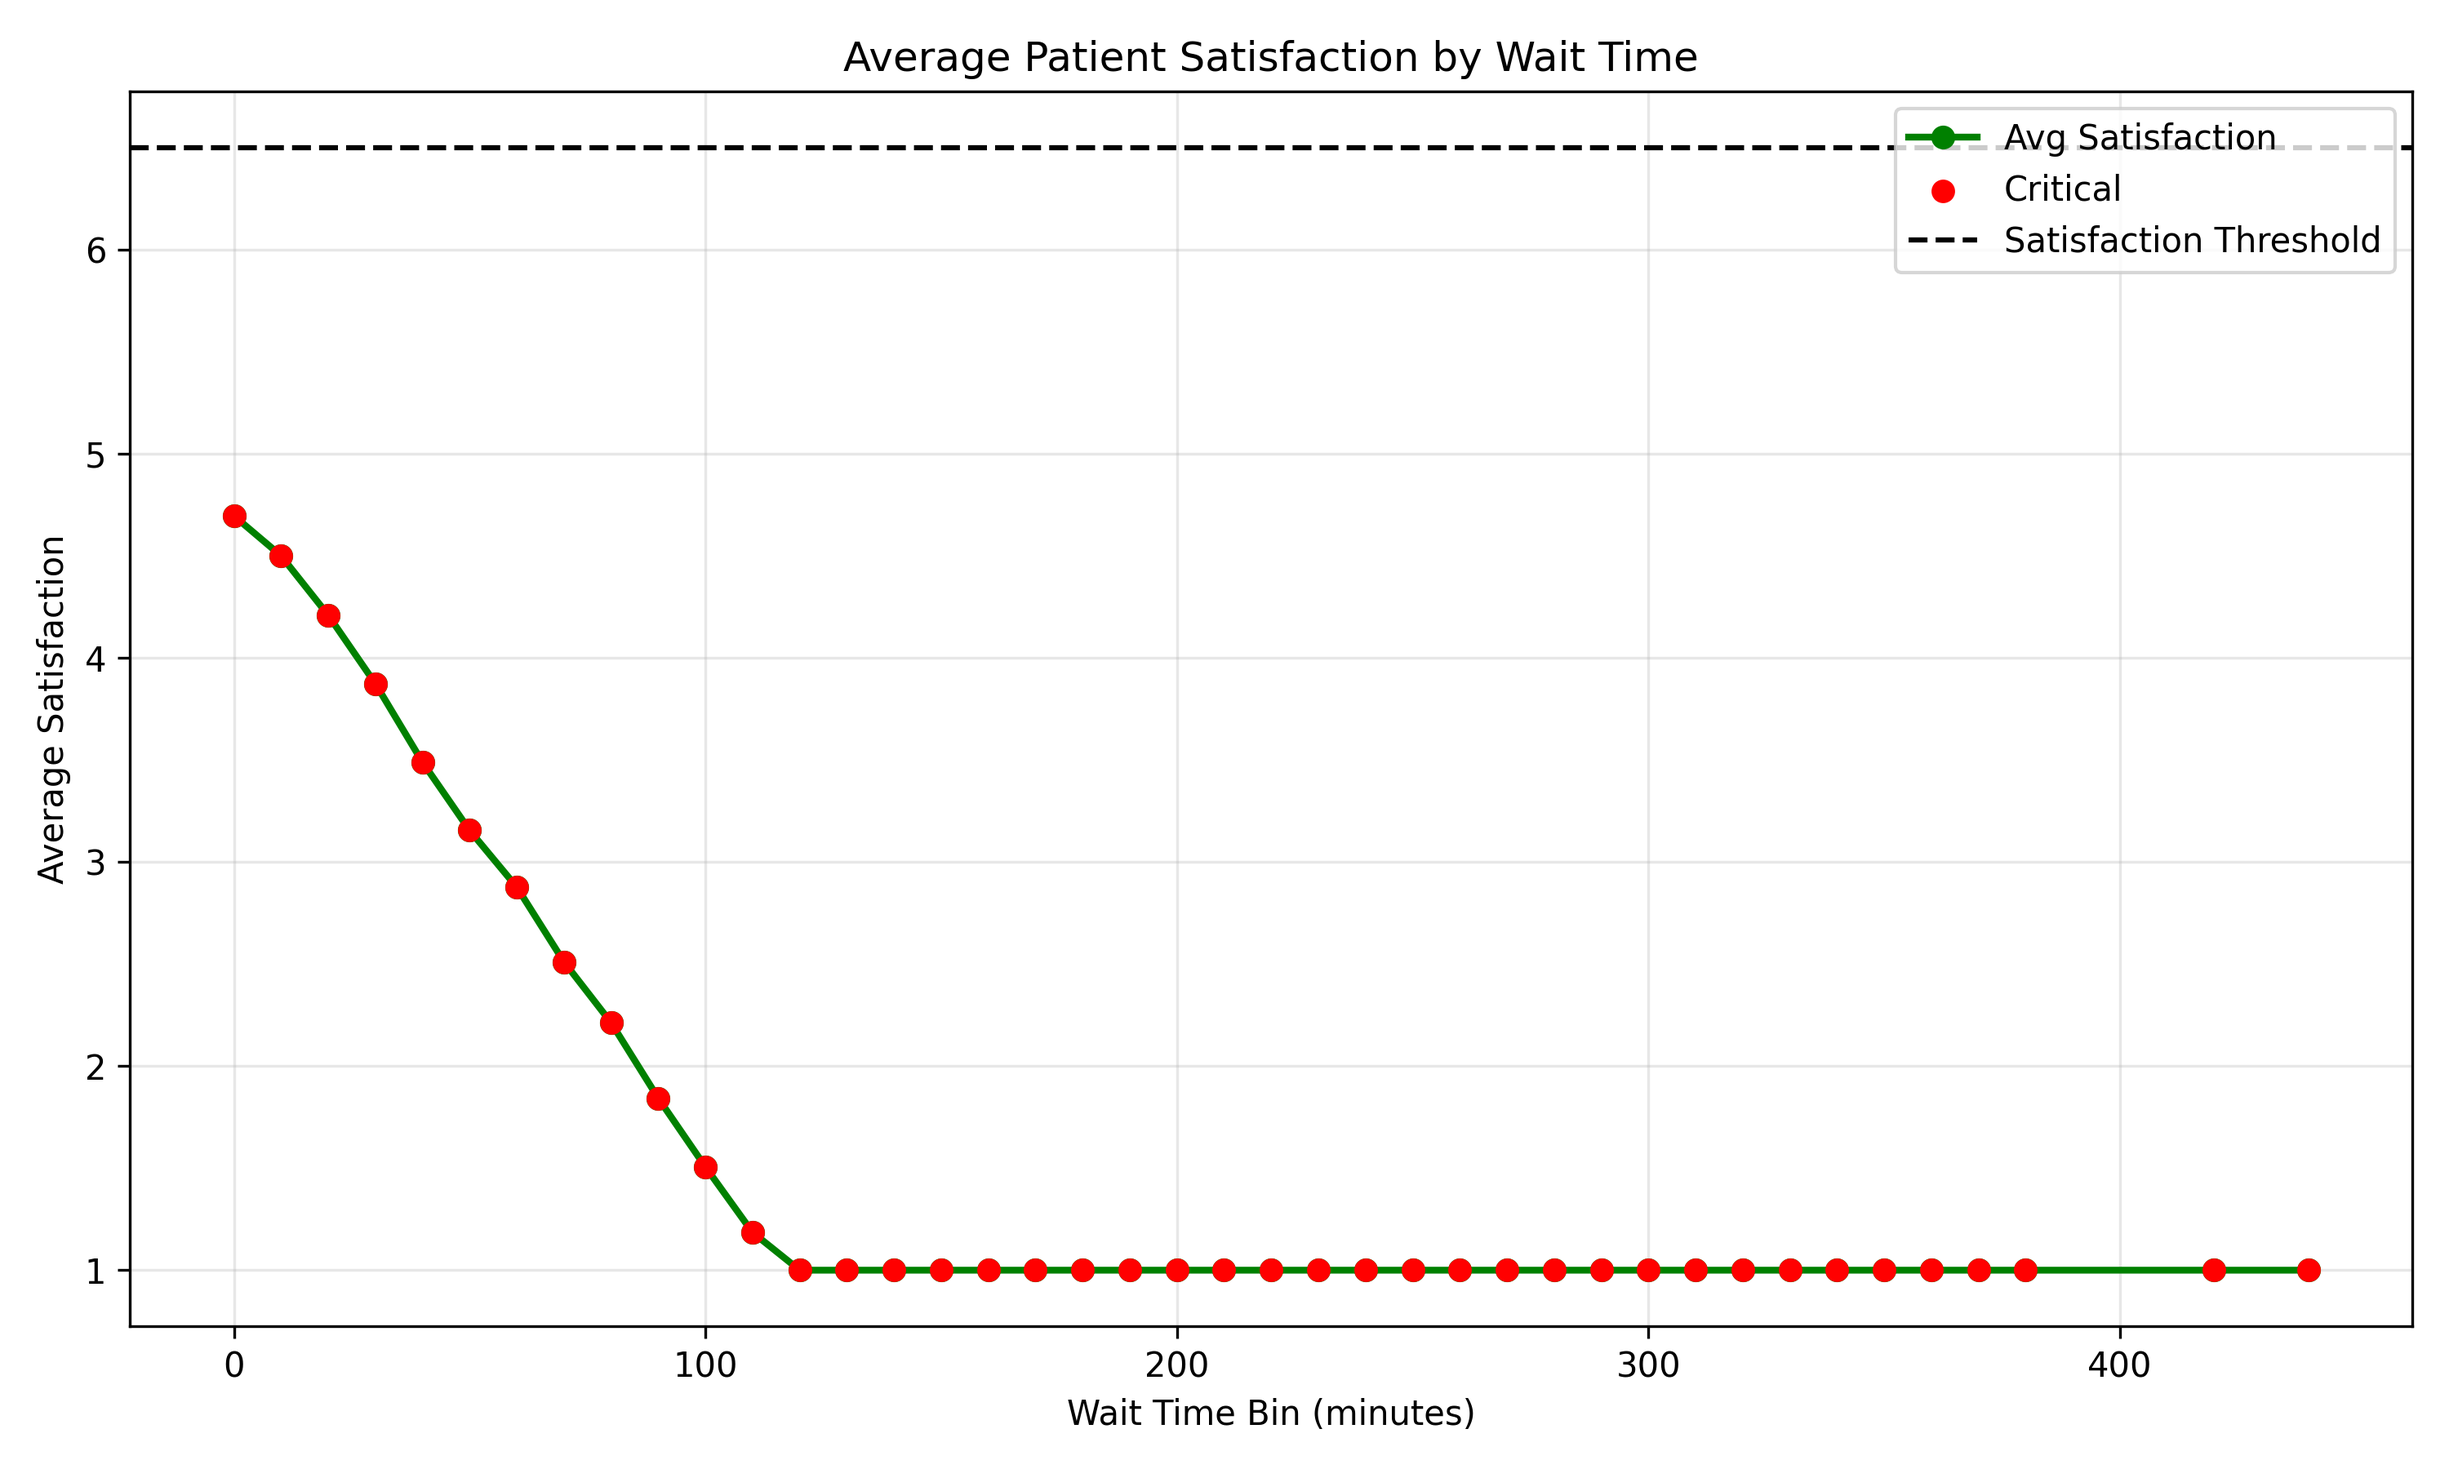
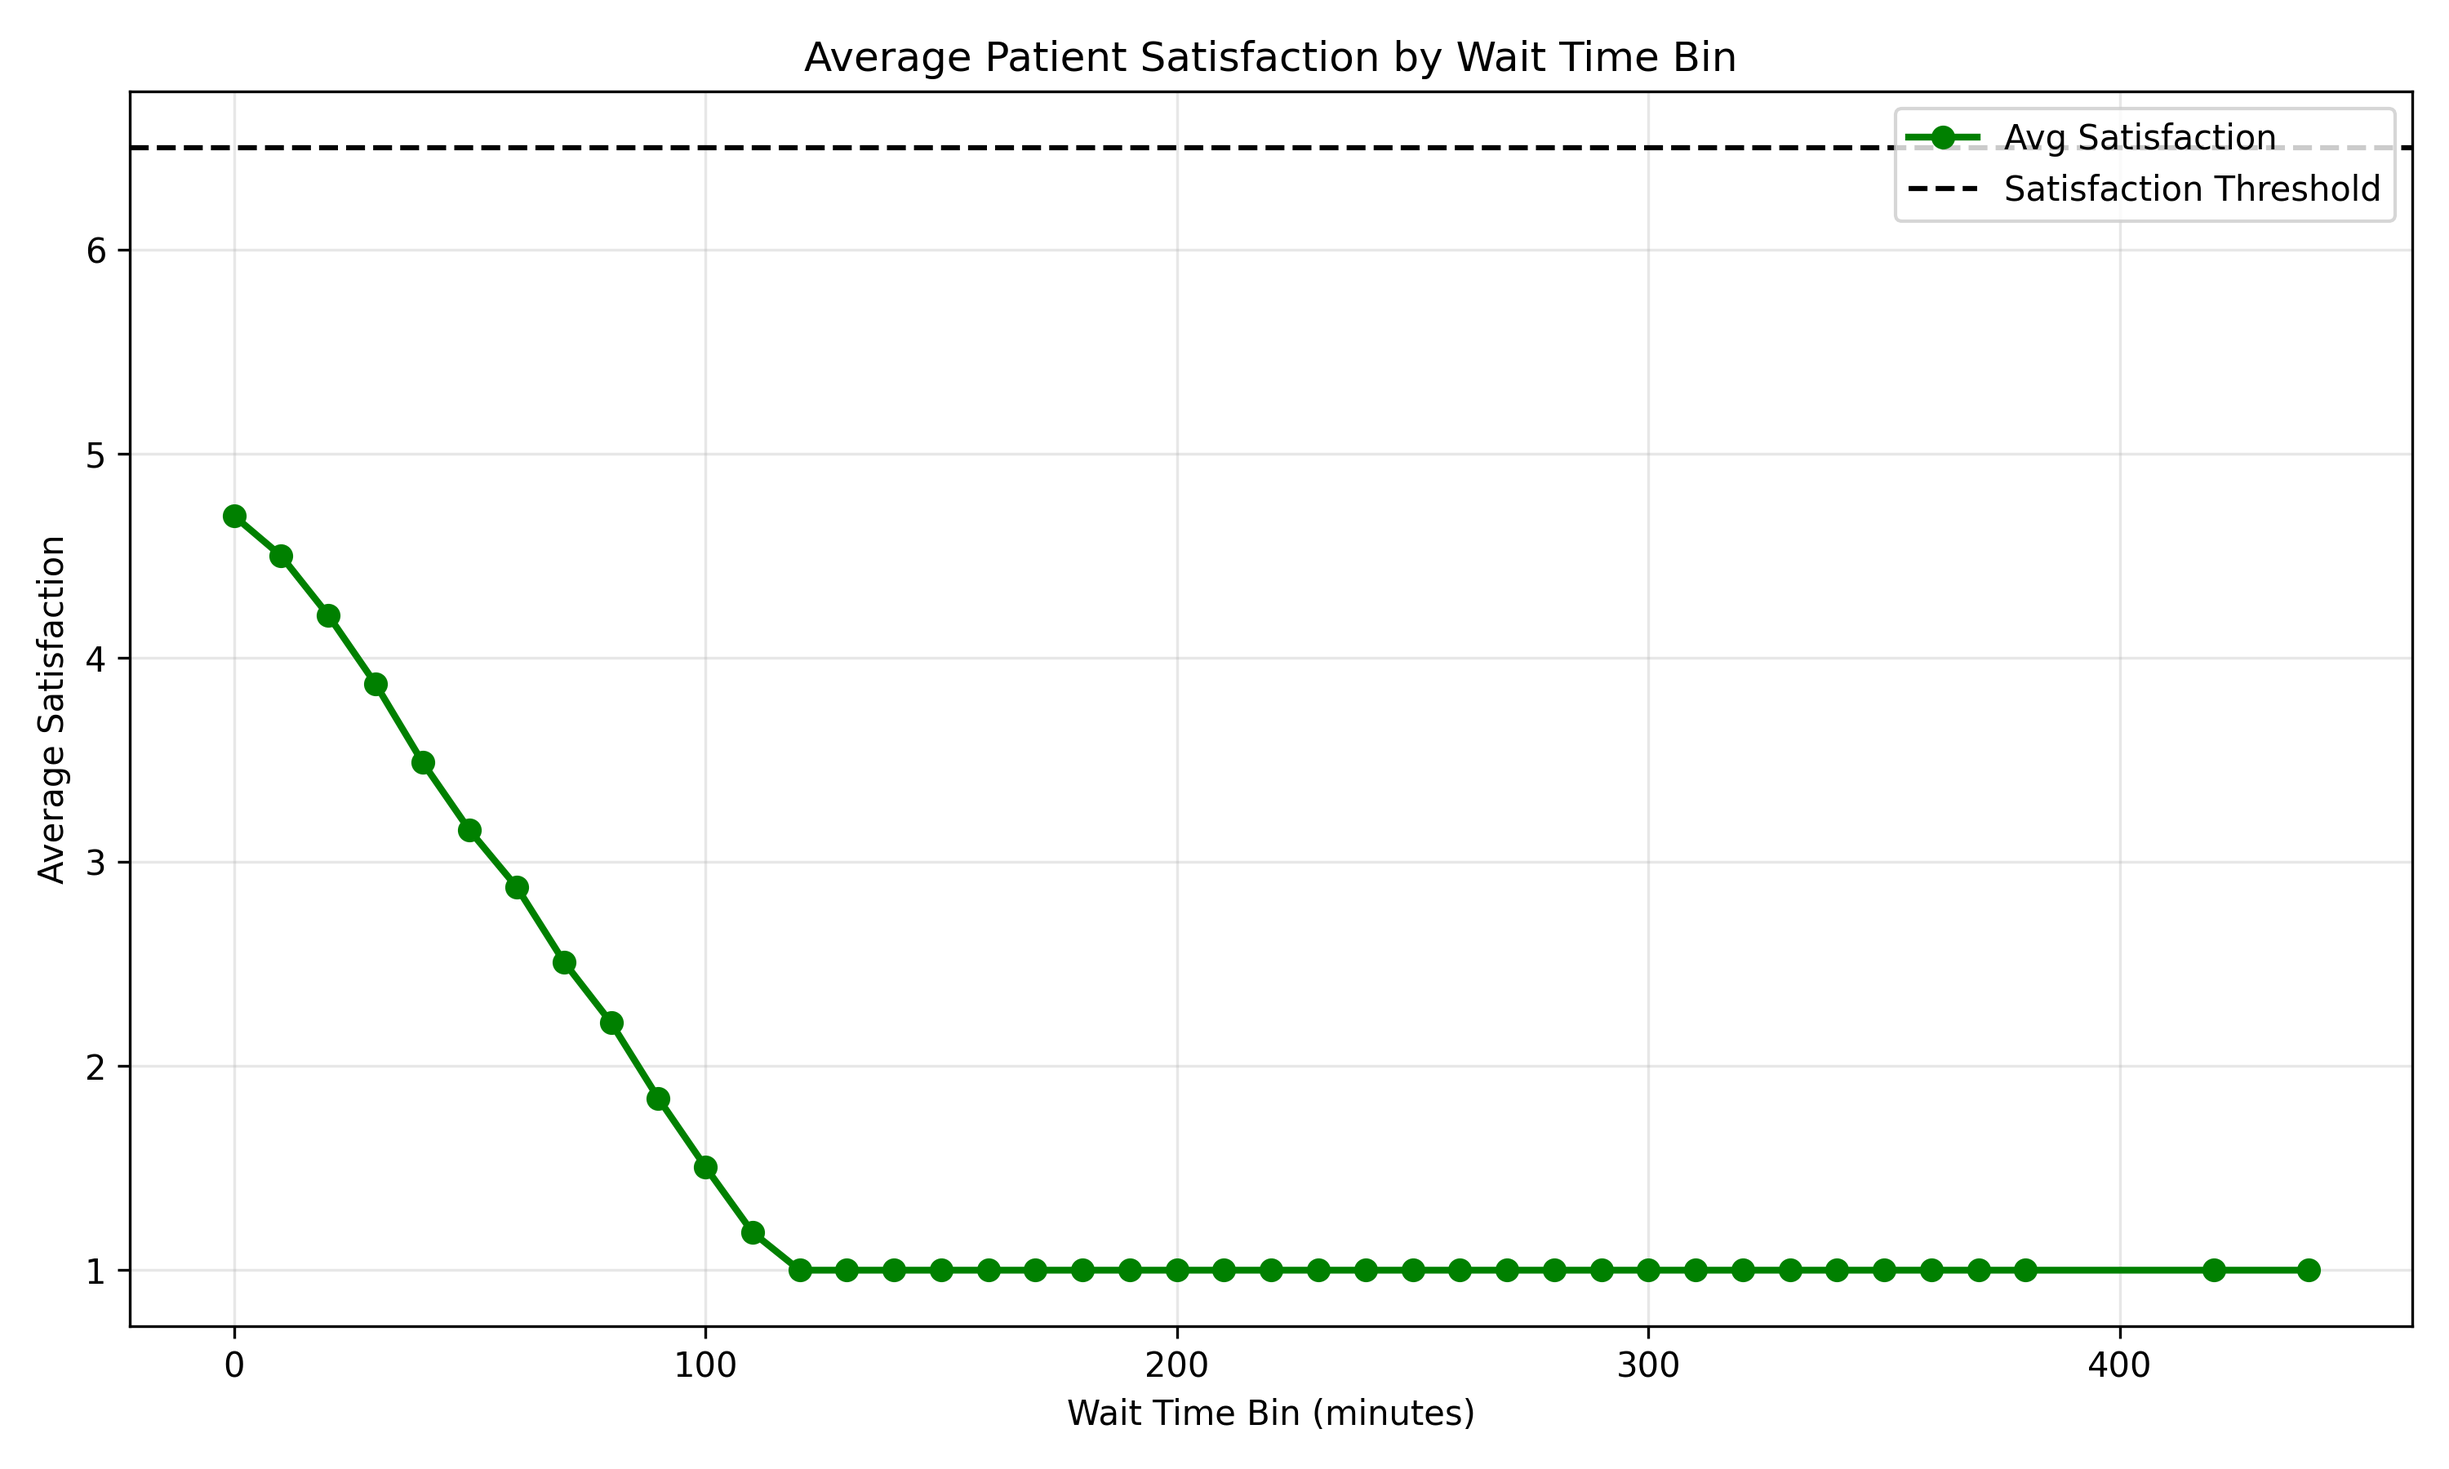
Phase 5: Add ED system visualizations and anomaly monitoring

diff --git a/src/cintel/continuous_intelligence_ER_wait_time_bethspornitz.py b/src/cintel/continuous_intelligence_ER_wait_time_bethspornitz.py
@@ -207,14 +207,13 @@ def main() -> None:
     # ----------------------------------------------------
     LOG.info("STEP 6. Creating visualization artifacts...")
 
-    # ----------------------------------------------------
-    # VISUAL 1: ED System Monitoring Dashboard
-    # ----------------------------------------------------
     dashboard_df = df.select(
         [
             "visit_datetime",
             "rolling_avg_wait_time",
             "rolling_avg_satisfaction",
+            "rolling_left_without_being_seen_rate",
+            "rolling_avg_nurse_patient_ratio",
             "anomaly_count",
         ]
     ).drop_nulls()
@@ -226,66 +225,174 @@ def main() -> None:
 
     MIN_AVG_SATISFACTION = 6.5
 
-    fig, axes = plt.subplots(3, 1, figsize=(14, 11), sharex=True)
+    latest_wait = rolling_wait[-1]
+    latest_satisfaction = rolling_satisfaction[-1]
+    latest_anomalies = anomaly_count[-1]
+
+    if latest_anomalies >= 3:
+        current_status = "CRITICAL"
+    elif latest_anomalies >= 1:
+        current_status = "WARNING"
+    else:
+        current_status = "STABLE"
+
+    def get_status_color(
+        value: float, threshold: float, higher_is_bad: bool = True
+    ) -> str:
+        """Return executive dashboard color by severity."""
+        if higher_is_bad:
+            if value >= threshold * 1.15:
+                return "red"
+            if value >= threshold:
+                return "orange"
+            return "green"
+        else:
+            if value <= threshold * 0.85:
+                return "red"
+            if value <= threshold:
+                return "orange"
+            return "green"
+
+    wait_color = get_status_color(latest_wait, MAX_AVG_WAIT_TIME, higher_is_bad=True)
+    satisfaction_color = get_status_color(
+        latest_satisfaction, MIN_AVG_SATISFACTION, higher_is_bad=False
+    )
+
+    if latest_anomalies >= 3:
+        anomaly_color = "red"
+    elif latest_anomalies == 2:
+        anomaly_color = "orange"
+    elif latest_anomalies == 1:
+        anomaly_color = "gold"
+    else:
+        anomaly_color = "green"
+
+    if current_status == "CRITICAL":
+        state_color = "red"
+    elif current_status == "WARNING":
+        state_color = "orange"
+    else:
+        state_color = "green"
 
     # ----------------------------------------------------
-    # VISUAL 1A: Rolling Average Wait Time with Alert Points
+    # VISUAL 1: Executive Monitoring Dashboard
     # ----------------------------------------------------
-    axes[0].plot(
+    fig = plt.figure(figsize=(16, 10))
+    gs = fig.add_gridspec(
+        nrows=4,
+        ncols=4,
+        height_ratios=[1.2, 2.2, 2.2, 0.8],
+        hspace=0.5,
+        wspace=0.35,
+    )
+
+    # KPI cards
+    ax_kpi1 = fig.add_subplot(gs[0, 0])
+    ax_kpi2 = fig.add_subplot(gs[0, 1])
+    ax_kpi3 = fig.add_subplot(gs[0, 2])
+    ax_kpi4 = fig.add_subplot(gs[0, 3])
+
+    # Trend charts
+    ax_wait = fig.add_subplot(gs[1, :])
+    ax_sat = fig.add_subplot(gs[2, :])
+
+    # Alert strip
+    ax_alert = fig.add_subplot(gs[3, :])
+
+    for ax in [ax_kpi1, ax_kpi2, ax_kpi3, ax_kpi4]:
+        ax.set_xticks([])
+        ax.set_yticks([])
+        for spine in ax.spines.values():
+            spine.set_visible(False)
+
+    def draw_kpi_card(
+        ax, title: str, value_text: str, subtitle: str, color: str
+    ) -> None:
+        """Draw a simple executive KPI card."""
+        ax.set_facecolor("#f5f5f5")
+        ax.text(
+            0.5, 0.78, title, ha="center", va="center", fontsize=11, fontweight="bold"
+        )
+        ax.text(
+            0.5,
+            0.48,
+            value_text,
+            ha="center",
+            va="center",
+            fontsize=22,
+            fontweight="bold",
+            color=color,
+        )
+        ax.text(0.5, 0.18, subtitle, ha="center", va="center", fontsize=10)
+
+    draw_kpi_card(
+        ax_kpi1,
+        "Rolling Wait Time",
+        f"{latest_wait:.1f} min",
+        f"Threshold: {MAX_AVG_WAIT_TIME:.0f}",
+        wait_color,
+    )
+    draw_kpi_card(
+        ax_kpi2,
+        "Rolling Satisfaction",
+        f"{latest_satisfaction:.2f}",
+        f"Threshold: {MIN_AVG_SATISFACTION:.1f}",
+        satisfaction_color,
+    )
+    draw_kpi_card(
+        ax_kpi3,
+        "Current Anomaly Level",
+        f"{int(latest_anomalies)}",
+        "Combined active signals",
+        anomaly_color,
+    )
+    draw_kpi_card(
+        ax_kpi4,
+        "System State",
+        current_status,
+        "Current overall status",
+        state_color,
+    )
+
+    # ----------------------------------------------------
+    # WAIT TIME CHART WITH SHADED ALERT PERIODS
+    # ----------------------------------------------------
+    ax_wait.plot(
         dates,
         rolling_wait,
         color="green",
         linewidth=2,
         label="Rolling Avg Wait Time",
     )
-
-    axes[0].axhline(
+    ax_wait.axhline(
         y=MAX_AVG_WAIT_TIME,
         color="black",
         linestyle="--",
         linewidth=1.5,
-        label="Wait Time Threshold",
+        label="Wait Threshold",
     )
 
-    wait_yellow = []
-    wait_orange = []
-    wait_red = []
+    above_wait = [v > MAX_AVG_WAIT_TIME for v in rolling_wait]
+    for i in range(len(dates) - 1):
+        if above_wait[i]:
+            ax_wait.axvspan(dates[i], dates[i + 1], color="red", alpha=0.18)
 
-    for d, v in zip(dates, rolling_wait, strict=False):
-        if v > MAX_AVG_WAIT_TIME * 1.20:
-            wait_red.append((d, v))
-        elif v > MAX_AVG_WAIT_TIME * 1.10:
-            wait_orange.append((d, v))
-        elif v > MAX_AVG_WAIT_TIME:
-            wait_yellow.append((d, v))
-
-    if wait_yellow:
-        wx, wy = zip(*wait_yellow, strict=False)
-        axes[0].scatter(wx, wy, color="gold", s=25, zorder=3, label="Warning")
-    if wait_orange:
-        ox, oy = zip(*wait_orange, strict=False)
-        axes[0].scatter(ox, oy, color="orange", s=30, zorder=3, label="Elevated")
-    if wait_red:
-        rx, ry = zip(*wait_red, strict=False)
-        axes[0].scatter(rx, ry, color="red", s=35, zorder=3, label="Critical")
-
-    axes[0].set_title("Rolling Average Wait Time")
-    axes[0].set_ylabel("Minutes")
-    axes[0].legend(loc="upper left")
-    axes[0].grid(alpha=0.3)
+    ax_wait.set_title("Rolling Average Wait Time with Alert Periods")
+    ax_wait.set_ylabel("Minutes")
+    ax_wait.grid(alpha=0.3)
+    ax_wait.legend(loc="upper left")
 
     # ----------------------------------------------------
-    # VISUAL 1B: Rolling Average Satisfaction with Alert Points
+    # SATISFACTION CHART WITH SHADED ALERT PERIODS
     # ----------------------------------------------------
-    axes[1].plot(
+    ax_sat.plot(
         dates,
         rolling_satisfaction,
         color="green",
         linewidth=2,
         label="Rolling Avg Satisfaction",
     )
-
-    axes[1].axhline(
+    ax_sat.axhline(
         y=MIN_AVG_SATISFACTION,
         color="black",
         linestyle="--",
@@ -293,73 +400,47 @@ def main() -> None:
         label="Satisfaction Threshold",
     )
 
-    sat_yellow = []
-    sat_orange = []
-    sat_red = []
+    below_sat = [v < MIN_AVG_SATISFACTION for v in rolling_satisfaction]
+    for i in range(len(dates) - 1):
+        if below_sat[i]:
+            ax_sat.axvspan(dates[i], dates[i + 1], color="red", alpha=0.18)
 
-    for d, v in zip(dates, rolling_satisfaction, strict=False):
-        if v < MIN_AVG_SATISFACTION * 0.80:
-            sat_red.append((d, v))
-        elif v < MIN_AVG_SATISFACTION * 0.90:
-            sat_orange.append((d, v))
-        elif v < MIN_AVG_SATISFACTION:
-            sat_yellow.append((d, v))
-
-    if sat_yellow:
-        sx, sy = zip(*sat_yellow, strict=False)
-        axes[1].scatter(sx, sy, color="gold", s=25, zorder=3, label="Warning")
-    if sat_orange:
-        sox, soy = zip(*sat_orange, strict=False)
-        axes[1].scatter(sox, soy, color="orange", s=30, zorder=3, label="Elevated")
-    if sat_red:
-        srx, sry = zip(*sat_red, strict=False)
-        axes[1].scatter(srx, sry, color="red", s=35, zorder=3, label="Critical")
-
-    axes[1].set_title("Rolling Average Patient Satisfaction")
-    axes[1].set_ylabel("Satisfaction")
-    axes[1].legend(loc="upper left")
-    axes[1].grid(alpha=0.3)
+    ax_sat.set_title("Rolling Average Patient Satisfaction with Alert Periods")
+    ax_sat.set_ylabel("Satisfaction")
+    ax_sat.grid(alpha=0.3)
+    ax_sat.legend(loc="upper left")
 
     # ----------------------------------------------------
-    # VISUAL 1C: System Anomalies Over Time with Alert Points
+    # ALERT TIMELINE STRIP
     # ----------------------------------------------------
-    axes[2].plot(
-        dates,
-        anomaly_count,
-        color="green",
-        linewidth=2,
-        label="Anomaly Count",
+    status_levels = []
+    for count in anomaly_count:
+        if count >= 3:
+            status_levels.append(3)
+        elif count == 2:
+            status_levels.append(2)
+        elif count == 1:
+            status_levels.append(1)
+        else:
+            status_levels.append(0)
+
+    ax_alert.imshow(
+        [status_levels],
+        aspect="auto",
+        interpolation="nearest",
+        extent=[0, len(status_levels), 0, 1],
+        cmap="RdYlGn_r",
     )
 
-    anom_yellow = []
-    anom_orange = []
-    anom_red = []
+    ax_alert.set_yticks([])
+    tick_positions = list(range(0, len(dates), max(1, len(dates) // 8)))
+    tick_labels = [dates[i].strftime("%Y-%m-%d") for i in tick_positions]
+    ax_alert.set_xticks(tick_positions)
+    ax_alert.set_xticklabels(tick_labels, rotation=0)
+    ax_alert.set_title("Alert Timeline: Green=Normal, Yellow=1, Orange=2, Red=3+")
+    ax_alert.set_xlabel("Visit Date")
 
-    for d, v in zip(dates, anomaly_count, strict=False):
-        if v >= 3:
-            anom_red.append((d, v))
-        elif v == 2:
-            anom_orange.append((d, v))
-        elif v == 1:
-            anom_yellow.append((d, v))
-
-    if anom_yellow:
-        ayx, ayy = zip(*anom_yellow, strict=False)
-        axes[2].scatter(ayx, ayy, color="gold", s=25, zorder=3, label="1 Anomaly")
-    if anom_orange:
-        aox, aoy = zip(*anom_orange, strict=False)
-        axes[2].scatter(aox, aoy, color="orange", s=30, zorder=3, label="2 Anomalies")
-    if anom_red:
-        arx, ary = zip(*anom_red, strict=False)
-        axes[2].scatter(arx, ary, color="red", s=35, zorder=3, label="3+ Anomalies")
-
-    axes[2].set_title("System Anomalies Over Time")
-    axes[2].set_ylabel("Anomaly Count")
-    axes[2].set_xlabel("Visit Date")
-    axes[2].legend(loc="upper left")
-    axes[2].grid(alpha=0.3)
-
-    plt.suptitle("ED System Monitoring Dashboard")
+    plt.suptitle("ED Executive Monitoring Dashboard", fontsize=16, fontweight="bold")
     plt.tight_layout()
     plt.savefig(ARTIFACTS_DIR / "ed_dashboard_bethspornitz.png", dpi=300)
     plt.close()
@@ -383,34 +464,11 @@ def main() -> None:
     plt.plot(
         wait_bins,
         avg_satisfaction,
-        color="green",
-        linewidth=2,
         marker="o",
+        linewidth=2,
+        color="green",
         label="Avg Satisfaction",
     )
-
-    bin_yellow = []
-    bin_orange = []
-    bin_red = []
-
-    for x, y in zip(wait_bins, avg_satisfaction, strict=False):
-        if y < MIN_AVG_SATISFACTION * 0.80:
-            bin_red.append((x, y))
-        elif y < MIN_AVG_SATISFACTION * 0.90:
-            bin_orange.append((x, y))
-        elif y < MIN_AVG_SATISFACTION:
-            bin_yellow.append((x, y))
-
-    if bin_yellow:
-        byx, byy = zip(*bin_yellow, strict=False)
-        plt.scatter(byx, byy, color="gold", s=25, zorder=3, label="Warning")
-    if bin_orange:
-        box, boy = zip(*bin_orange, strict=False)
-        plt.scatter(box, boy, color="orange", s=30, zorder=3, label="Elevated")
-    if bin_red:
-        brx, bry = zip(*bin_red, strict=False)
-        plt.scatter(brx, bry, color="red", s=35, zorder=3, label="Critical")
-
     plt.axhline(
         y=MIN_AVG_SATISFACTION,
         color="black",
@@ -418,12 +476,11 @@ def main() -> None:
         linewidth=1.5,
         label="Satisfaction Threshold",
     )
-
-    plt.title("Average Patient Satisfaction by Wait Time")
+    plt.title("Average Patient Satisfaction by Wait Time Bin")
     plt.xlabel("Wait Time Bin (minutes)")
     plt.ylabel("Average Satisfaction")
-    plt.legend(loc="upper right")
     plt.grid(alpha=0.3)
+    plt.legend(loc="upper right")
     plt.tight_layout()
     plt.savefig(
         ARTIFACTS_DIR / "wait_time_vs_satisfaction_binned_bethspornitz.png",
@@ -431,6 +488,7 @@ def main() -> None:
     )
     plt.close()
 
+    LOG.info("STEP 6 complete: visualization artifacts created")
     LOG.info("STEP 6 complete: visualization artifacts created")
 
     LOG.info("========================")
